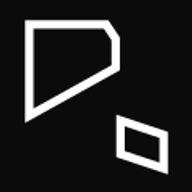
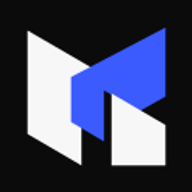
update branding

diff --git a/src/pages/HomePage.vue b/src/pages/HomePage.vue
@@ -1,4 +1,5 @@
 <script setup lang="ts">
+import BrandMark from "../components/BrandMark.vue";
 import { site } from "../data/site";
 </script>
 
@@ -14,7 +15,10 @@ import { site } from "../data/site";
 
         <div class="home-hero__body">
           <p class="home-hero__eyebrow">alias</p>
-          <h1 class="home-hero__title">{{ site.brand.wordmark }}</h1>
+          <div class="home-hero__identity">
+            <BrandMark class="home-hero__mark" :size="64" decorative />
+            <h1 class="home-hero__title">{{ site.brand.wordmark }}</h1>
+          </div>
           <div class="home-hero__rule" aria-hidden="true" />
           <p class="home-hero__tagline">
             <span class="home-hero__prompt" aria-hidden="true">›</span>
@@ -124,6 +128,19 @@ import { site } from "../data/site";
   letter-spacing: 0.14em;
   text-transform: uppercase;
   color: var(--muted);
+}
+
+.home-hero__identity {
+  display: flex;
+  align-items: center;
+  gap: 0.9rem;
+}
+
+.home-hero__mark {
+  flex: 0 0 auto;
+  width: clamp(3rem, 9vw, 4rem);
+  height: auto;
+  color: var(--text);
 }
 
 .home-hero__title {

diff --git a/src/components/BrandMark.vue b/src/components/BrandMark.vue
@@ -15,26 +15,20 @@ withDefaults(
   <svg
     :width="size"
     :height="size"
-    viewBox="0 0 80 80"
-    fill="none"
+    viewBox="0 0 128 128"
     xmlns="http://www.w3.org/2000/svg"
     :aria-hidden="decorative ? 'true' : undefined"
     :role="decorative ? undefined : 'img'"
     aria-label="MaskedSyntax"
   >
     <path
-      d="M 12 48 V 10 H 44 L 48 16 V 28 L 12 48 Z"
-      stroke="currentColor"
-      stroke-width="3"
-      stroke-linejoin="miter"
-      stroke-linecap="square"
+      d="M18 20 68 49 54 57v53L18 89V20Z"
+      fill="currentColor"
     />
     <path
-      d="M 50 64 V 50 L 68 56 V 70 L 50 64 Z"
-      stroke="currentColor"
-      stroke-width="3"
-      stroke-linejoin="miter"
-      stroke-linecap="square"
+      d="m47 51 63-33v46L78 82V65l-9-5v34L47 81V51Z"
+      fill="var(--accent)"
     />
+    <path d="m74 62 36 21v27H74V62Z" fill="currentColor" />
   </svg>
 </template>

diff --git a/assets/brand/README.md b/assets/brand/README.md
@@ -1,0 +1,33 @@
+# MaskedSyntax brand assets
+
+The mark is a woven, modular monogram: one form passes behind another to express concealment without drawing a literal mask, while the folded pieces suggest multiple products growing from one identity. It is designed to stay readable at favicon/avatar sizes and to work as a one-color silhouette when needed.
+
+## Palette
+
+- Syntax cobalt: `#3B5BFF`
+- Ink: `#0B0C10`
+- Paper: `#F7F7F8`
+- Muted: `#A8ADBA`
+
+## Web assets
+
+- `web/maskedsyntax-mark-adaptive.svg` — automatically follows the visitor's preferred color scheme
+- `web/maskedsyntax-mark-light.svg` / `web/maskedsyntax-mark-dark.svg` — explicit theme variants
+- `web/maskedsyntax-lockup-light.svg` / `web/maskedsyntax-lockup-dark.svg` — mark plus wordmark
+- `web/maskedsyntax-mark-mono.svg` — one-color reproduction
+- Matching 512 px transparent PNG exports are included for raster-only surfaces
+
+Use the mark at 24 px or larger. Leave clear space around it equal to roughly one quarter of its width. Do not put the two-color light variant on a dark background or the dark variant on a light background.
+
+## YouTube assets
+
+- `youtube/maskedsyntax-youtube-avatar.png` — 1024 × 1024 PNG; safe for YouTube's circular crop
+- `youtube/maskedsyntax-youtube-banner.png` — 2560 × 1440 PNG; meaningful content sits inside the centered 1546 × 423 cross-device safe area
+
+The SVG sources are included beside each PNG for future edits.
+
+## Source exploration
+
+`source/imagegen-concept-v2.png` is the selected AI-generated exploration used to establish the woven modular direction. It is retained as source material, not as the production logo. The earlier bracket concept remains in the source folder only as revision history.
+
+The complete generation prompt and mode are recorded in `IMAGEGEN-PROMPT.md`.

diff --git a/assets/brand/IMAGEGEN-PROMPT.md b/assets/brand/IMAGEGEN-PROMPT.md
@@ -1,0 +1,25 @@
+# Image generation prompt
+
+Mode: built-in image generation
+
+Use case: logo-brand
+
+Asset type: refined brand-mark exploration for favicon, website header, product umbrella brand, and YouTube avatar
+
+Primary request: Create one highly reduced abstract symbol for MaskedSyntax based on concealment and modular product launches, without depicting a mask or using programming punctuation.
+
+Subject: three interlocking rectangular ribbons or app-card fragments arranged so one segment visibly passes behind another; the hidden/revealed overlap creates a subtle S-shaped path in negative space. The whole silhouette should hint at an M only after a second look. It should communicate one parent identity spawning multiple focused products.
+
+Style/medium: premium flat vector identity, rigorous grid, contemporary editorial software-studio aesthetic, bold simple geometry, one memorable optical trick, no decorative detail.
+
+Composition/framing: exactly one centered compact symbol on a square warm-white canvas with generous padding; slightly horizontal or square; readable at 20 px; balanced asymmetry.
+
+Color palette: ink black `#0B0C10` with one electric cobalt `#3B5BFF` segment; must work in pure one-color reproduction.
+
+Scene/backdrop: clean warm-white presentation background.
+
+Constraints: no text, no literal letter M or S drawn plainly, no face, no eyes, no mask silhouette, no code brackets, no `</>`, no slash, no cursor, no shield, no circle container, no cube, no nodes, no gradients, no 3D, no glow, no mockup, no watermark, no thin lines.
+
+Avoid: literal developer iconography and generic hacker-brand tropes.
+
+The generated concept informed the selected woven modular motif. The final production artwork was rebuilt as clean SVG geometry for reliable scaling and theme variants.

diff --git a/assets/brand/YOUTUBE.md b/assets/brand/YOUTUBE.md
@@ -1,0 +1,33 @@
+# YouTube channel setup
+
+## Channel name
+
+**MaskedSyntax**
+
+This is the strongest name because it matches the domain, GitHub identity, and umbrella brand for every product launched beneath it.
+
+## Description
+
+MaskedSyntax documents the process of turning ideas into shipped software—from mobile apps and focused utilities to local-first tools, systems projects, and ML experiments.
+
+Expect product demos, build logs, architecture breakdowns, performance deep dives, launch postmortems, and honest notes on what worked, what broke, and what changed along the way.
+
+If you care about practical engineering, thoughtful product decisions, and software built to solve real problems, you’ll feel at home here.
+
+Projects and build notes: https://maskedsyntax.com
+Source code: https://github.com/maskedsyntax
+
+## Links to add
+
+1. Website — https://maskedsyntax.com
+2. GitHub — https://github.com/maskedsyntax
+3. Personal site — https://aftaab.dev
+4. X — https://x.com/aftaab___
+5. LinkedIn — https://www.linkedin.com/in/aftaabsiddiqui/
+
+Put **Website** first so it receives the most prominent placement on the channel header. Add direct product links later only for active launches; use the MaskedSyntax homepage as the durable index.
+
+## Optional handle and one-line bio
+
+- Handle: `@MaskedSyntax` if available
+- One-line bio: `From idea to shipped software—apps, tools, build logs, and engineering deep dives.`
